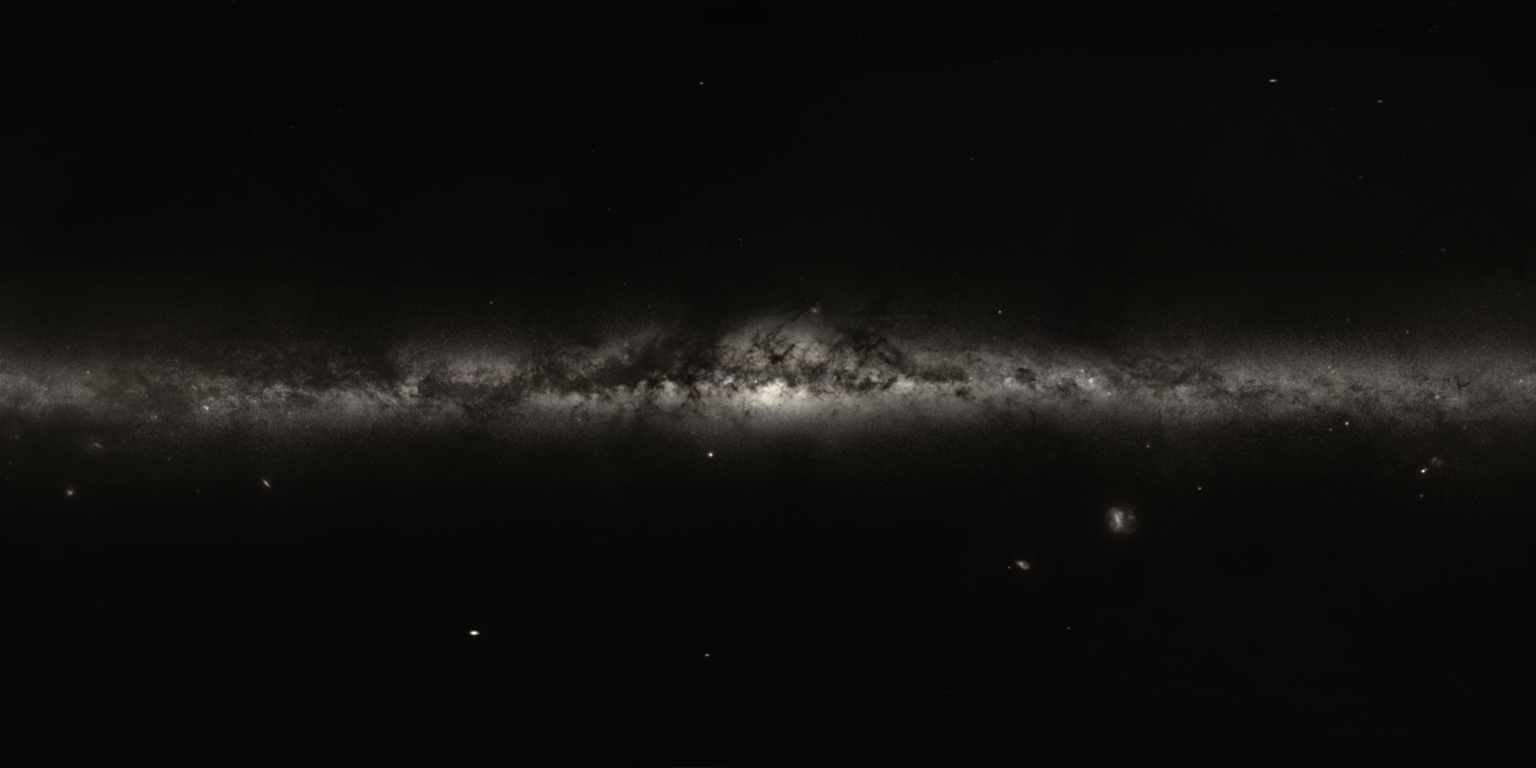
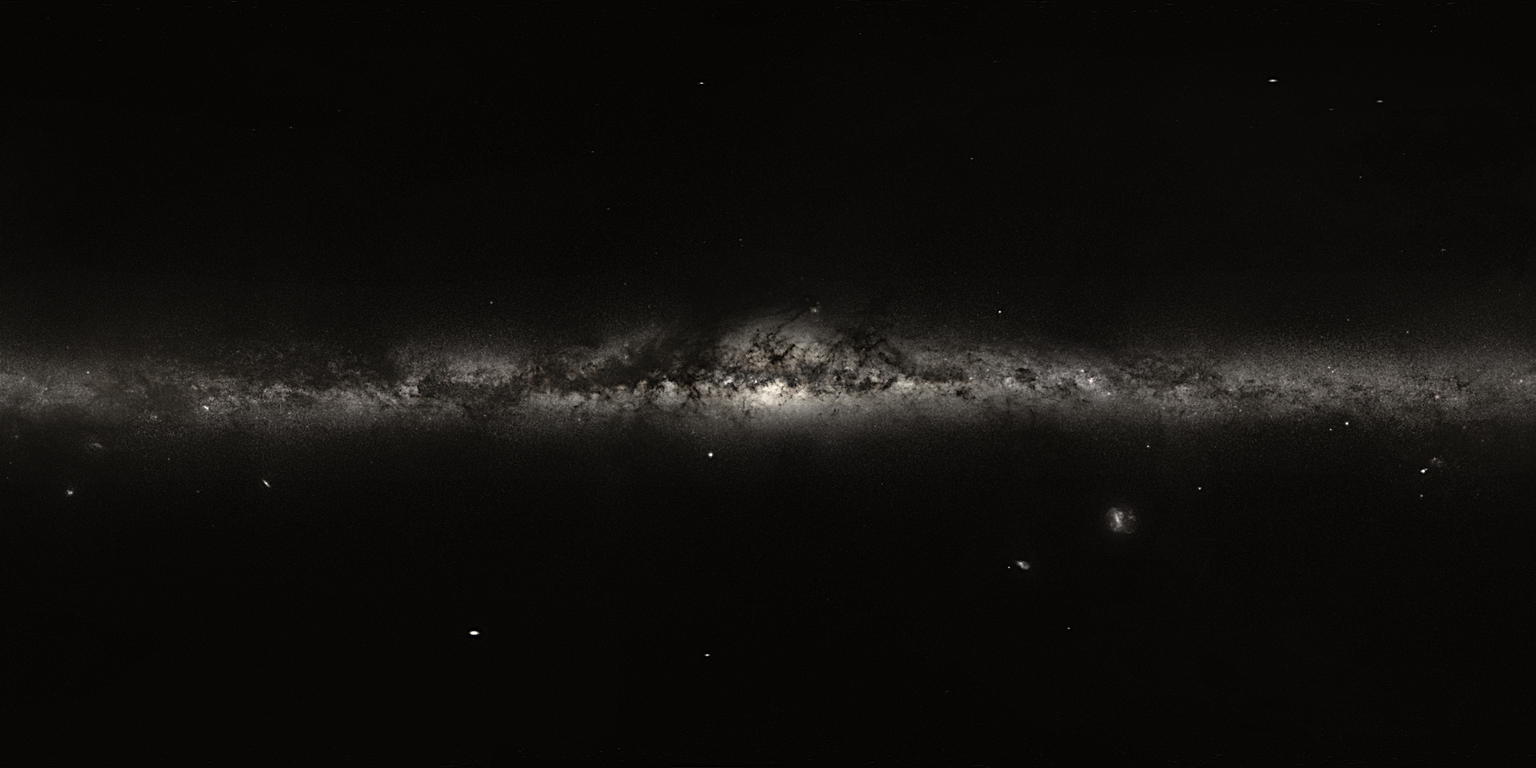
Milky Way: camera-centred sky (no parallax), 8deg horizon dim, selective star removal + unsharp detail (keeps faint grain), 40k procedural star-dust point layer following band

Changed region(s): [[0.5, 0.5, 0.5312, 0.5312], [0.4688, 0.4688, 0.5, 0.5]]

diff --git a/surface/src/main.js b/surface/src/main.js
@@ -106,7 +106,7 @@ scene.add(skyRig);
 // drew AFTER the band, normal blending (opacity 0.98) overwrote the bright haze
 // with the faint stars' near-black colours: dark dots near Jupiter. Fixed: stars
 // first (renderOrder 1), band added on top (renderOrder 2), Jupiter opaque.
-const SKY_ORDER = { stars: 1, milkyWay: 2 };
+const SKY_ORDER = { stars: 1, starDust: 1.5, milkyWay: 2 };
 for (const o of skyRig.children) if (o.isPoints) o.renderOrder = SKY_ORDER.stars;
 
 // Milky Way — a REAL all-sky photograph, locked to the REAL galactic plane.
@@ -126,6 +126,9 @@ for (const o of skyRig.children) if (o.isPoints) o.renderOrder = SKY_ORDER.stars
   const MW_STRENGTH = 1.6;
   const MW_CAP = 0.24;        // max luminance of the band (hue-preserving cap)
   const MW_CONTRAST = 1.35;   // >1: brighter core, darker rift lanes, dark sky outside
+  const MW_HFADE_DEG = 8;     // band dims to 0 over the lowest N degrees of elevation (reads as distant, not planted)
+  const DUST_COUNT = 40000;   // procedural faint 'star dust' (NOT catalog stars; stars.json untouched). 0 = off
+  const DUST_GAIN = 1.0;      // star-dust brightness
   const mwTex = await new THREE.TextureLoader().loadAsync('./assets/milkyway-eso0932a-4k.jpg').catch(() => null);
   if (mwTex) {
     mwTex.colorSpace = THREE.SRGBColorSpace;
@@ -133,7 +136,7 @@ for (const o of skyRig.children) if (o.isPoints) o.renderOrder = SKY_ORDER.stars
     mwTex.minFilter = THREE.LinearFilter;        // also avoids a mip seam at l=180
     mwTex.wrapS = THREE.RepeatWrapping;
     const mat = new THREE.ShaderMaterial({
-      defines: { MW_STRENGTH: MW_STRENGTH.toFixed(3), MW_CAP: MW_CAP.toFixed(3), MW_CONTRAST: MW_CONTRAST.toFixed(3) },
+      defines: { MW_HFADE_DEG: MW_HFADE_DEG.toFixed(2), MW_STRENGTH: MW_STRENGTH.toFixed(3), MW_CAP: MW_CAP.toFixed(3), MW_CONTRAST: MW_CONTRAST.toFixed(3) },
       uniforms: { uMap: { value: mwTex }, uPole: { value: GAL_POLE }, uCenter: { value: GAL_CENTER }, uGy: { value: GAL_Y } },
       side: THREE.BackSide, transparent: true, depthWrite: false,
       blending: THREE.AdditiveBlending,
@@ -158,7 +161,10 @@ for (const o of skyRig.children) if (o.isPoints) o.renderOrder = SKY_ORDER.stars
           vec3 color = c * (Yc / max(Y, 1e-5)) * MW_STRENGTH;
           float Ym = dot(color, vec3(0.2126, 0.7152, 0.0722));
           color *= min(1.0, MW_CAP / max(Ym, 1e-5));             // hue-preserving brightness cap
-          float horizon = smoothstep(-0.03, 0.05, d.y);           // fade below the ice
+          // horizon: no atmosphere, but a band at full brightness right down to the ice reads as
+          // 'touching the ground'. Dim it gently over the lowest MW_HFADE_DEG of elevation.
+          float horizon = smoothstep(0.0, sin(radians(MW_HFADE_DEG)), d.y);
+          horizon *= horizon;
           // dither: breaks up 8-bit banding / residual texel grid
           float n = fract(sin(dot(gl_FragCoord.xy, vec2(12.9898, 78.233))) * 43758.5453);
           color *= 1.0 + (n - 0.5) * 0.06;                        // multiplicative, so dark sky stays black
@@ -170,6 +176,47 @@ for (const o of skyRig.children) if (o.isPoints) o.renderOrder = SKY_ORDER.stars
     const band = new THREE.Mesh(new THREE.SphereGeometry(1500, 64, 32), mat);
     band.renderOrder = SKY_ORDER.milkyWay;
     skyRig.add(band);
+
+    // Star dust — DUST_COUNT faint tiny points, density + brightness following the photo's band
+    // (rejection-sampled against the texture's luminance). One extra draw call, ~1 MB. Grain the
+    // 4K photo can't give at Quest pixel density. Separate from the Hipparcos catalog.
+    if (DUST_COUNT > 0 && mwTex.image) {
+      const img = mwTex.image, cw = 1024, ch = 512;
+      const cv = document.createElement('canvas'); cv.width = cw; cv.height = ch;
+      const cx = cv.getContext('2d'); cx.drawImage(img, 0, 0, cw, ch);
+      const px = cx.getImageData(0, 0, cw, ch).data;
+      const lum = i => (0.2126 * px[i] + 0.7152 * px[i + 1] + 0.0722 * px[i + 2]) / 255;
+      let rnd = 12345; const R = () => ((rnd = (rnd * 1664525 + 1013904223) >>> 0) / 4294967296);
+      const pos = new Float32Array(DUST_COUNT * 3), col = new Float32Array(DUST_COUNT * 3);
+      const DR = 1450, v = new THREE.Vector3();
+      let n = 0, guard = 0;
+      while (n < DUST_COUNT && guard++ < DUST_COUNT * 60) {
+        const u = R(), z = R() * 2 - 1;                       // uniform on sphere in galactic frame
+        const l = (0.5 - u) * Math.PI * 2, b = Math.asin(z);
+        const ix = Math.min(cw - 1, (u * cw) | 0), iy = Math.min(ch - 1, ((0.5 - b / Math.PI) * ch) | 0);
+        const k = (iy * cw + ix) * 4, Y = lum(k);
+        const p = Math.min(1, Math.pow(Y / 0.45, 1.6) + 0.015); // mostly in the band, a few everywhere
+        if (R() > p) continue;
+        v.copy(GAL_CENTER).multiplyScalar(Math.cos(b) * Math.cos(l))
+          .addScaledVector(GAL_Y, Math.cos(b) * Math.sin(l)).addScaledVector(GAL_POLE, Math.sin(b));
+        if (v.y < 0.0) continue;                                // never below the horizon
+        const hz = Math.min(1, v.y / Math.sin(MW_HFADE_DEG * Math.PI / 180));
+        const m = (0.10 + 0.35 * Math.pow(R(), 3) + 0.25 * Math.min(1, Y / 0.4)) * DUST_GAIN * hz * hz;
+        pos.set([v.x * DR, v.y * DR, v.z * DR], n * 3);
+        const w = 0.85 + 0.15 * R();
+        col.set([m * (px[k] / 255 * 0.5 + 0.5), m * (px[k + 1] / 255 * 0.5 + 0.5) * w, m * (px[k + 2] / 255 * 0.5 + 0.5) * w * w], n * 3);
+        n++;
+      }
+      const g = new THREE.BufferGeometry();
+      g.setAttribute('position', new THREE.BufferAttribute(pos.subarray(0, n * 3), 3));
+      g.setAttribute('color', new THREE.BufferAttribute(col.subarray(0, n * 3), 3));
+      const dust = new THREE.Points(g, new THREE.PointsMaterial({
+        size: 1.0, sizeAttenuation: false, vertexColors: true, transparent: true,
+        blending: THREE.AdditiveBlending, depthWrite: false
+      }));
+      dust.renderOrder = SKY_ORDER.starDust; dust.frustumCulled = false;
+      skyRig.add(dust);
+    }
   }
 }
 
@@ -626,6 +673,7 @@ let roll = 0;
 window.__surface = { loadLocation, look: (y, p = 0, r = 0) => { yaw = y; pitch = p; roll = r; },
   head: (x = 0, y = 0, z = 0) => camera.position.set(x, PLAYER_HEIGHT + y, z), get active() { return activeLocation; } };
 
+const _skyPos = new THREE.Vector3();
 renderer.setAnimationLoop(() => {
   const now = performance.now();
   tickFps(now);
@@ -641,7 +689,8 @@ renderer.setAnimationLoop(() => {
   sun.target.updateMatrixWorld();
 
   // sky stays glued to the player (fixed stars, motionless Jupiter)
-  skyRig.position.set(rig.position.x, 0, rig.position.z);
+  // camera-centred (incl. head height/XR head offset) so the sky has zero parallax
+  camera.getWorldPosition(_skyPos); skyRig.position.copy(_skyPos);
 
   // gentle disc pulse
   const s = 1 + Math.sin(now * 0.003) * 0.06;

diff --git a/tools/prep-milkyway.py b/tools/prep-milkyway.py
@@ -1,6 +1,6 @@
 """Preprocess ESO/S. Brunier eso0932a (CC BY 4.0) into the surface Milky Way texture.
 Source: https://www.eso.org/public/archives/images/large/eso0932a.jpg (6000x3000, galactic equirect).
-Steps: remove point stars (median at full res) -> smooth mosaic/JPEG blocking -> colour grade to
+Steps: remove only BRIGHT point stars (masked median at full res, faint grain kept) -> unsharp detail -> smooth mosaic/JPEG blocking -> colour grade to
 starlight (desaturate magenta, warm-white core, tan dust) -> even out band brightness along longitude
 -> 4096x2048 JPEG q95 4:4:4.  Tunables below."""
 import sys, numpy as np
@@ -13,10 +13,19 @@ WARM = np.array([1.00, 0.90, 0.76])   # warm-white starlight tint for bright sta
 DUST = np.array([1.00, 0.80, 0.60])   # tan/brown tint for faint regions / dust lanes
 EQ_STRENGTH = 0.6                  # 0 = photo's own longitude falloff, 1 = fully flattened band
 EQ_MAXGAIN = 2.6
+STAR_K = 0.10                      # only stars brighter than median+STAR_K (sRGB) are removed (they duplicate catalog stars)
+DETAIL = 0.6                       # high-pass "clarity" boost of the remaining star grain / dust lanes
 im = Image.open(SRC).convert('RGB')
-im = im.filter(ImageFilter.MedianFilter(7))                 # stars out (at 6000 px)
-im = im.resize((W, H), Image.LANCZOS).filter(ImageFilter.GaussianBlur(1.2))  # seams/JPEG blocks
+src = np.asarray(im).astype(np.float64) / 255.0
+med = np.asarray(im.filter(ImageFilter.MedianFilter(7))).astype(np.float64) / 255.0
+# selective star removal: replace only bright point stars (and a 1px halo) by the median; faint grain stays
+mask = ((src - med).max(-1) > STAR_K).astype(np.uint8) * 255
+mask = np.asarray(Image.fromarray(mask).filter(ImageFilter.MaxFilter(3))) > 0
+a6 = np.where(mask[..., None], med, src)
+im = Image.fromarray((a6 * 255 + 0.5).astype(np.uint8)).resize((W, H), Image.LANCZOS)
 a = np.asarray(im).astype(np.float64) / 255.0
+lo = np.asarray(im.filter(ImageFilter.GaussianBlur(6))).astype(np.float64) / 255.0
+a = np.clip(a + DETAIL * (a - lo), 0, 1)                     # unsharp: grain + lane edges, no 1.2px blur
 lin = np.where(a <= 0.04045, a / 12.92, ((a + 0.055) / 1.055) ** 2.4)
 Y = lin @ np.array([0.2126, 0.7152, 0.0722])
 # colour: neutral luminance tinted dust->warm by brightness, plus a little of the original hue
